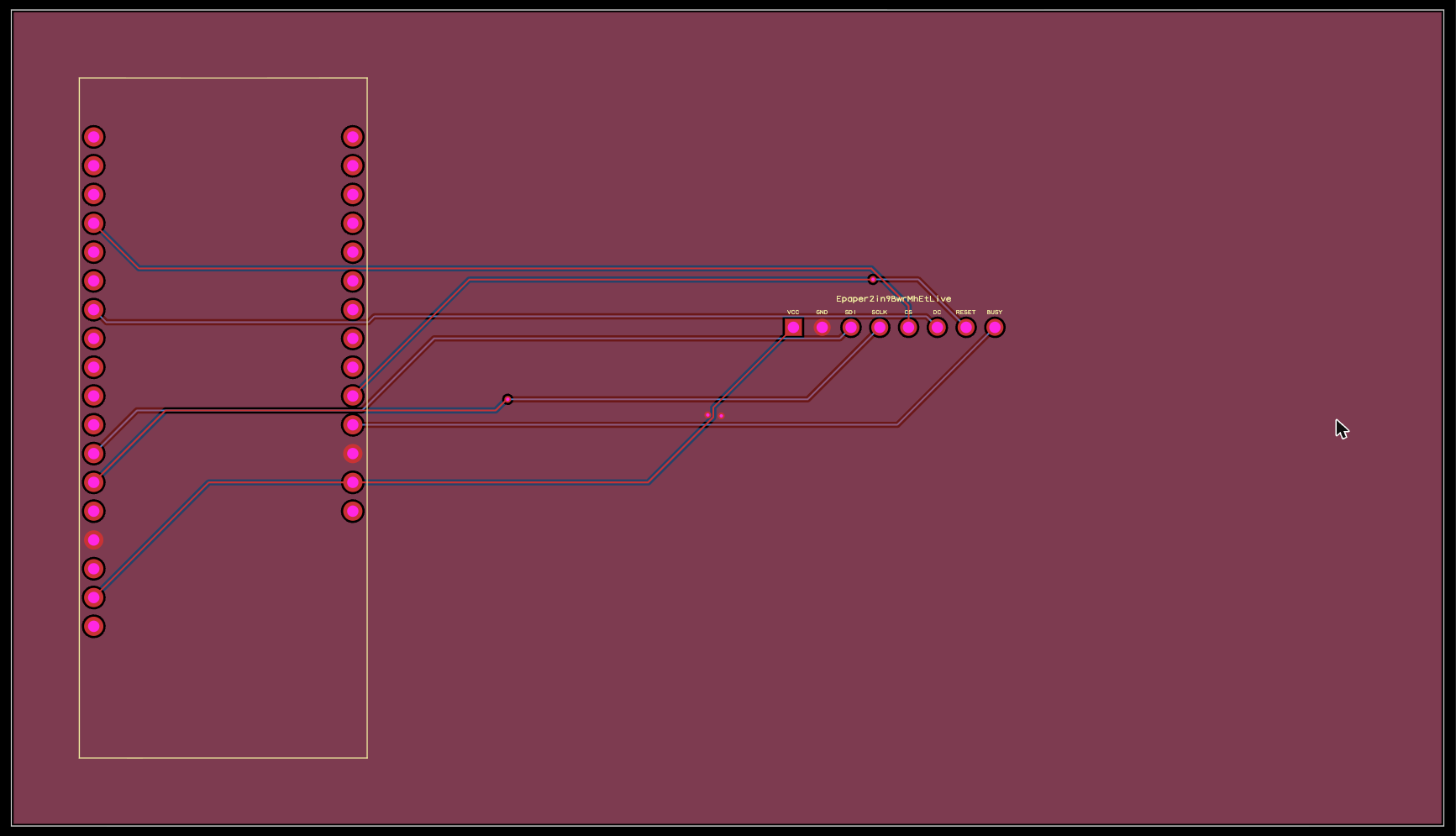
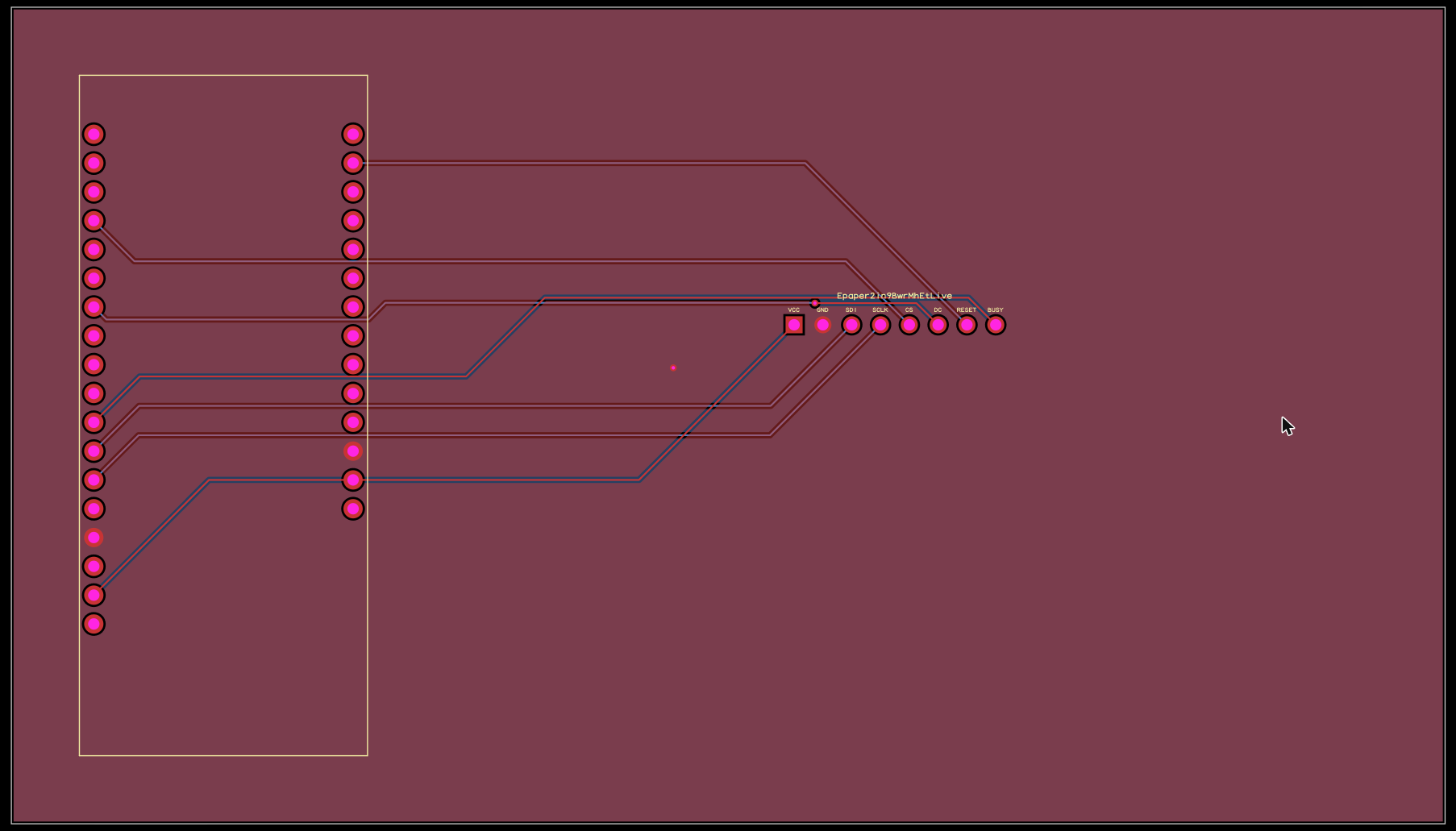
P1089: the council of three's answers; a fair before-and-after pair from today's board; p711-sound-demo and the STEP export tried
Claude-Session: https://claude.ai/code/session_01FVemmeeXJfMxGmLsDcAojH

diff --git a/docs/discovery/2026-11-26-p1089-kicad-and-tscircuit/finding.md b/docs/discovery/2026-11-26-p1089-kicad-and-tscircuit/finding.md
@@ -2,7 +2,8 @@
 
 Spike for [#1600](https://github.com/xmejkal/spark/issues/1600), under P203 [#163](https://github.com/xmejkal/spark/issues/163).
 Date: 2026-11-26. The evidence is in [notes.md](notes.md) and three pictures in this folder. The architect wrote this
-text from the notes. The kicad-spike session added two explanations to section 9 and made the card titles shorter. The refuter's corrections are in sections 1.3, 1.4, 2.2, 3, 4, 5 and 9.
+text from the notes. The kicad-spike session added two explanations to section 9 and made the card titles shorter. The refuter's corrections are in sections 1.3, 1.4, 2.2, 3, 4, 5 and 9. The council's
+findings are in sections 1.4, 2.3, 3.1 and 4.
 
 > In short: the "weird PCBs" are mostly tscircuit's automatic pour, which spark turns on in one line of the board file.
 > The rest is spark's own: big empty boards, modules with no body, 0.15 mm traces and nets named by pin.
@@ -42,7 +43,8 @@ The PO did not say which fault he sees ("I'm not sure why"). This order is the a
    Both come from spark's board file.
 4. Small faults (F8 to F11). One tscircuit default, two spark bugs and one fault that P512 fixed.
 
-The autorouter is the cause of no fault. The pinned version is a possible cause of F3 only.
+The autorouter is the cause of no fault at the export's 0.1 mm clearance. At 0.2 mm, its closest gap is 0.11 mm, a
+via to a track (section 1.3). The pinned version is a possible cause of F3 only.
 
 ![Today's board with the automatic pour](pcb-today-automatic-pour.png)
 
@@ -85,8 +87,16 @@ the 10 traces carry V33 in every build. The routes change. KiCad's DRC on that e
 
 ![The same board with one GND pour per layer](pcb-one-gnd-pour.png)
 
-Two things follow. This change removes F1 and most of F2 with two lines of the board file. It also lets kicad-cli
-alone finish the board, with no pcbnew script.
+The first pair of pictures was not like for like, as the council's PO assistant found. The session then built a fair
+pair from spark's own board of today, with today's footprint. Only the pour differs between the two builds.
+
+| Board, built 2026-11-26 | Automatic pour | One GND pour per layer |
+|---|---|---|
+| e-paper, spark's board of today | 1 V33 and 37 GND pieces on top, 2 V33 and 25 GND on the bottom, 0 errors | 1 GND piece per layer, 0 errors, 10 traces |
+| p711-sound-demo, five parts | 61 V33 and 165 GND pieces, 0 errors, 25 traces, 24 vias | 1 GND piece per layer, 0 errors, 25 traces, 24 vias |
+
+The two pictures in this folder are the e-paper pair. Two things follow. This change removes F1 and most of F2 with
+two lines of the board file. It also lets kicad-cli alone finish the board, with no pcbnew script.
 
 ## 2. KiCad
 
@@ -129,7 +139,7 @@ tscircuit board with no KiCad at all.
 |---|---|---|---|
 | The PCB and its routing | Short routes that repeat. The pour is the fault. | No routing by kicad-cli. Its refill and DRC run on tscircuit's routes. | KiCad adds the fill and the check, not the routes. |
 | The 3D model with the parts | The 3D tab shows pads and a box. | The render and the STEP show a body for the header only. | The same gap in both. It is F4, spark's. |
-| The export for Fusion 360 | `tsci export --help` lists `step` and `glb`. The spike did not run them. | STEP in 0.5 s. Fusion's KiCad importer needs "KiCad v7 files or higher". | No import into Fusion ran. |
+| The export for Fusion 360 | `tsci export -f step` ran in about 2 s without KiCad: 618 KB, one product named "PCB", no module bodies. | STEP in 0.5 s. Fusion's KiCad importer needs "KiCad v7 files or higher". | No import into Fusion ran. |
 | The install weight | 298 npm packages in a scratch project. | macOS download 1.4 GB, 4.8 GB installed. Windows download 969 MB. KiCad asks for up to 10 GB. | KiCad stays optional for a person. |
 | A headless run from a script | `tsci build` runs from `BuildService`. | Every kicad-cli command ran headless. | Both fit. |
 
@@ -168,11 +178,19 @@ It is missing:
    (`build_service.py:284`, 305). The engine builds the file named `board.tsx` (`board_engine.py:133`).
 4. The connections are never one value. `signal_lines`, `mcu_power_lines` and `module_power_lines` write them direct
    into TSX text (`board_sections.py:266`, 306, 389). The netlist exists only after the build: `netlist.Netlist`
-   reads the built `circuit.json` (`build_service.py:112`, `netlist.py:41`).
+   reads the built `circuit.json` (`build_service.py:112`, `netlist.py:41`). One case is different. For a board
+   alone, `board_alone_input` writes `netlist.json` before the build, and the converter reads it
+   (`build_service.py:478`). A later neutral plan reuses that shape.
 5. Every reader after the build reads `circuit.json`. 26 Python files under `scripts/` name it, and so does the Wokwi
    converter. The contract's name is `tscircuit-board` (`data/tools.json:22`).
 6. The engine's choices sit in text. The router, the pour and the via sizes are attributes of the `<board>` line
    (`board_sections.py:135` to 138).
+7. The router is a strategy too, as spark-main relayed. tscircuit's autorouter routes today. Freerouting, from the
+   Specctra DSN that tsci or pcbnew writes, or a KiCad engine, can route later. With the second engine, the seam also keeps
+   the router apart from the board writer.
+
+The council's architect seat named more selection sites and the contract's promise. See
+[council-answers.md](council-answers.md).
 
 ```mermaid
 flowchart TD
@@ -265,7 +283,8 @@ So spark does not move to KiCad. It adds KiCad after the build, by kicad-cli. Th
 
 The steps, each testable alone:
 
-1. The pour card. The fixture is the e-paper board: 0 errors and at most one GND pour piece per region.
+1. The pour card. The fixtures are the e-paper board and p711-sound-demo. `tsci build` gives 0 errors and one GND
+   pour piece per layer. KiCad's check names the clearance it used, from `min_trace_to_pad_edge_clearance`.
 2. The spark fault cards F9, F10, F6, F7 and F4, in that order of size.
 3. The seam card. A base `BoardEngine` and one selection point. No behaviour changes. A test points the role at a fake
    second engine.
@@ -304,7 +323,8 @@ untrue on this board, because V33 has traces today, and the pour card corrects i
 
 ## 6. Choices for the council
 
-Each answer is "delegated, the PO's to change". The recommended option is first.
+Each answer is "delegated, the PO's to change". The recommended option is first. The council's answers are in
+[council-answers.md](council-answers.md).
 
 1. Does spark move its board engine to KiCad now? (a) No, KiCad comes after the build as an export. (b) Yes, as an epic now. (c) No KiCad at all.
 2. Which pour does a generated board ask for? (a) One GND pour per layer. (b) The automatic pour, as today. (c) No pour.
@@ -321,7 +341,7 @@ Each answer is "delegated, the PO's to change". The recommended option is first.
 
 | Decision | Reason | Rejected |
 |---|---|---|
-| KiCad is an export after the build. | kicad-cli has no place or route command. The routes are clean. | KiCad as the engine now: very large, and it makes 1.4 GB a must. |
+| KiCad is an export after the build. | kicad-cli has no place or route command. The routes are clean at 0.1 mm. | KiCad as the engine now: very large, and it makes 1.4 GB a must. |
 | kicad-cli, no MCP server. | It ran headless today. AGENTS.md puts a local CLI first. | An MCP server: two more runtimes, and the IPC API needs the GUI. |
 | The pour fix is inside tscircuit. | Two lines, tried, 0 errors. | A KiCad fill in the build: the build then needs KiCad. |
 | The export is its own Operation. | The build must run without KiCad. Every frontend gets the chain. | A `--keep` flag: `BuildBoard` already holds a long argument list. |
@@ -369,12 +389,12 @@ tool and opened no picture.
   routed again on 2026-11-26 and gave 127 pieces, as the fresh builds did (notes, F10). So the two numbers describe
   two routes.
 - Does a newer tscircuit change the implicit pour or F3? The spike read one version.
-- Does the one-GND-pour change hold on the other 12 boards? The spike tried the e-paper board.
+- Does the one-GND-pour change hold on the other 11 boards? The spike tried the e-paper board and p711-sound-demo.
 - Does a named net per signal (F7) build? Does the Wokwi converter still read it? No one tried.
 - Does a tool exist that turns a KiCad board into `circuit.json`? No one looked.
 - Does a person's or a project's tools file name the contract `tscircuit-board`?
 - Does a build note already name a rail with no current, beside the comment in the file?
 - The size on disk of tscircuit's 298 packages, and KiCad's licence text.
-- `tsci export -f step` and `-f glb` did not run.
+- `tsci export -f glb` did not run.
 - Does Fusion's 80 cm² limit apply to an imported STEP file? Autodesk's page returned HTTP 403 to the refuter.
 - No DRC ran at a fab's real clearance. JLCPCB's minimum spacing was not read.

diff --git a/docs/discovery/2026-11-26-p1089-kicad-and-tscircuit/council-answers.md b/docs/discovery/2026-11-26-p1089-kicad-and-tscircuit/council-answers.md
@@ -1,0 +1,54 @@
+# P1089: the council's answers
+
+The council of three answered the ten questions of [finding.md](finding.md) section 6 on 2026-11-26, 07:44 to 07:47
+CET. Each seat ran on Fable: the tech lead, the architect and the PO assistant. Each answer is delegated, the PO's to
+change. The recommendation itself is the PO's to decide.
+
+How the facts were checked: every count comes from runs in a scratch copy, as [notes.md](notes.md) says. The refuter
+on Opus reproduced the main claims before the council read them.
+
+## The answers
+
+| # | Question | Answer | Seats | Condition |
+|---|---|---|---|---|
+| 1 | Does spark move its board engine to KiCad now? | (a) No. KiCad comes after the build as an export. | all three | The PO decides this one himself, because it turns his words of 2026-11-26 on a switch to KiCad around. |
+| 2 | Which pour does a generated board ask for? | (a) One GND pour per layer. | all three | The pour is one named value in one place. Try more boards before the merge. Name the clearance that the check uses, from one source. |
+| 3 | A KiCad MCP server in the tools list? | (a) No, and `docs/mcp.md` says today's reasons. | all three | Ask again at KiCad 11. |
+| 4 | Does the export card go to Ready now? | (a) Yes, after the pour card. | all three | Each KiCad finding names the clearance it used and that number's source. The PO assistant puts F4 first, because a STEP of a bare board gives Fusion nothing. |
+| 5 | How does the export enter? | (a) A new Operation `export-board` with a role for kicad-cli. | all three | It goes in `build_operations.OPERATIONS` and names no tool itself. No kicad-cli gives `could-not-run`. Its findings name kicad-cli's version. |
+| 6 | When does the seam card run? | (a) Now, as a small card with no behaviour change. | architect, PO assistant. The tech lead chose (b), with the second engine. | Say plainly that the seam makes the engine selectable, not yet exchangeable. No rename. The card covers every selection site (below). |
+| 7 | Does the spike run Freerouting? | (a) No, for the council. | all three | Only the PO can allow the run of the downloaded binary. He asked for the run through spark-main at about 07:35 CET, and his own yes in the kicad-spike window decides it. |
+| 8 | Is F5, the placement, in scope? | (a) No. One line under P203, with the 80 cm² measure. | all three | The PO looks at the pictures first. If the empty board is his "weird", it becomes (b). |
+| 9 | Does F8, the 0.7 mm silkscreen, get a card? | (a) No, until a fab's rule with a source says that 0.7 mm fails. | all three | none |
+| 10 | Which body does F4 use? | (a) A box from the record, with the height as a new fact. | all three | A null height gives no box, and the build says so. The PO assistant puts this card first among spark's fault cards. |
+
+## What the seats added
+
+- Tech lead: the clearance has one number already. `pour_contact.py:43` to 61 judges by the board's
+  `min_trace_to_pad_edge_clearance`, and it says that tsci cuts pours at 0.2 mm. The export uses that number, not a
+  third one.
+- Tech lead: by the MVP bar, the pour card, F10 and F9 serve the breadboard first. The export, the seam and F4 are P203
+  work. Proposed order: the pour card, then F10 with F9, then `export-board`.
+- Architect: the seam card covers every selection site. These are `build_service.py:211`, `board_engine.py:129`,
+  `requirements_build.py:93`, and the two places that build `TscircuitExport` (`build_board.py:141`,
+  `kept_files.py:577`).
+- Architect: the engine and its board writer are one choice. One table gives the pair.
+- Architect: the contract `tscircuit-board` says what it promises, for example "gives `dist/board/circuit.json`". The
+  table keys on a fact in the tool's entry, not its name. An unknown key is `could-not-run`, never tscircuit.
+- Architect: the Fake subclasses the base, as `FakeFirmwarePlatform(FirmwarePlatform)` does.
+- Architect: the export asks the engine for the KiCad files, through a method of the Strategy. It adds no third wrapper
+  of `tsci`.
+- Architect: the kicad-cli entry in the tools list is off by default, as `rich` is. `/spark:setup` names the 1.4 GB
+  download and asks before an install.
+- Architect: a netlist already exists before the build in one case. For a board alone, `board_alone_input` writes
+  `netlist.json`, and the converter reads it (`build_service.py:478`). A later neutral plan reuses that shape.
+- PO assistant: the first pair of pictures was not like for like. The session replaced it with a fair pair: today's
+  board with today's footprint, with and without the automatic pour.
+- PO assistant: `tsci export -f step` needs no KiCad. The session ran it: one product named "PCB", 618 KB, and no
+  module bodies.
+
+## What the PO decides himself
+
+- Question 1, the move to KiCad, because it turns his own words around.
+- The run of Freerouting, in the kicad-spike window.
+- Whether the "after" picture is no longer "weird", and the Ready order of the cards.

diff --git a/docs/discovery/2026-11-26-p1089-kicad-and-tscircuit/notes.md b/docs/discovery/2026-11-26-p1089-kicad-and-tscircuit/notes.md
@@ -59,6 +59,19 @@ tscircuit's own fill still leaves what KiCad calls isolated copper, and KiCad's 
 e-paper by a trace in every build, with or without this change. The refuter found that the export's netclass
 clearance is 0.1 mm, and that at 0.2 mm both boards give 6 clearance errors.
 
+### The fair pair, after the council (07:45 to 07:48 CET, read from the clock)
+
+The council's PO assistant found that the first two pictures used two footprints. `spk/` is spark's own build of
+today, with today's footprint (14-pin row on the left). `spkgnd/` is the same board with one GND pour per layer.
+
+- spk: 1 V33 and 37 GND pieces on top, 2 V33 and 25 GND on the bottom, 0 errors, 10 traces, 3 vias.
+- spkgnd: 1 GND piece per layer, 0 errors, 10 traces, 2 vias. `tsci build` took 4.5 s.
+- p711-sound-demo with its own `board.tsx`: the automatic pour gives 61 V33 and 165 GND pieces. One GND pour per layer
+  gives 1 piece per layer. Both have 0 errors, 25 traces and 24 vias.
+- `tsci export -f step` on spkgnd ran in about 2 s with no KiCad. It wrote 618 KB with one product named "PCB" and no
+  module bodies.
+- The two pictures in this folder are now spk and spkgnd.
+
 ## Question 2: KiCad
 
 ### What ran

diff --git a/docs/discovery/2026-11-26-p1089-kicad-and-tscircuit/README.md b/docs/discovery/2026-11-26-p1089-kicad-and-tscircuit/README.md
@@ -20,6 +20,8 @@ The raw evidence, with every command and count, is [notes.md](notes.md).
 
 ## Before and after
 
+Both pictures show spark's e-paper board of today, with the same footprint. The pour is the only change.
+
 | Today: the automatic pour | One ground pour per layer |
 |---|---|
 | ![today](pcb-today-automatic-pour.png) | ![one ground pour](pcb-one-gnd-pour.png) |
